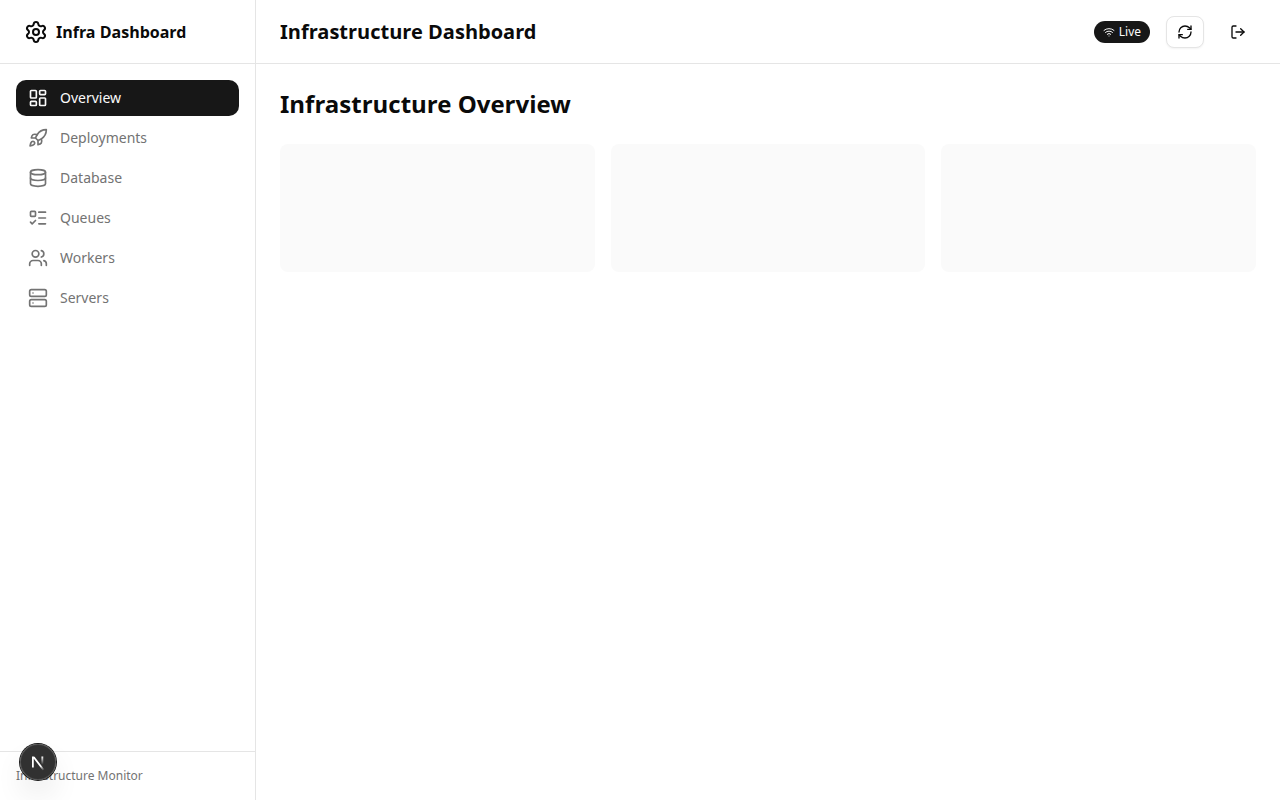
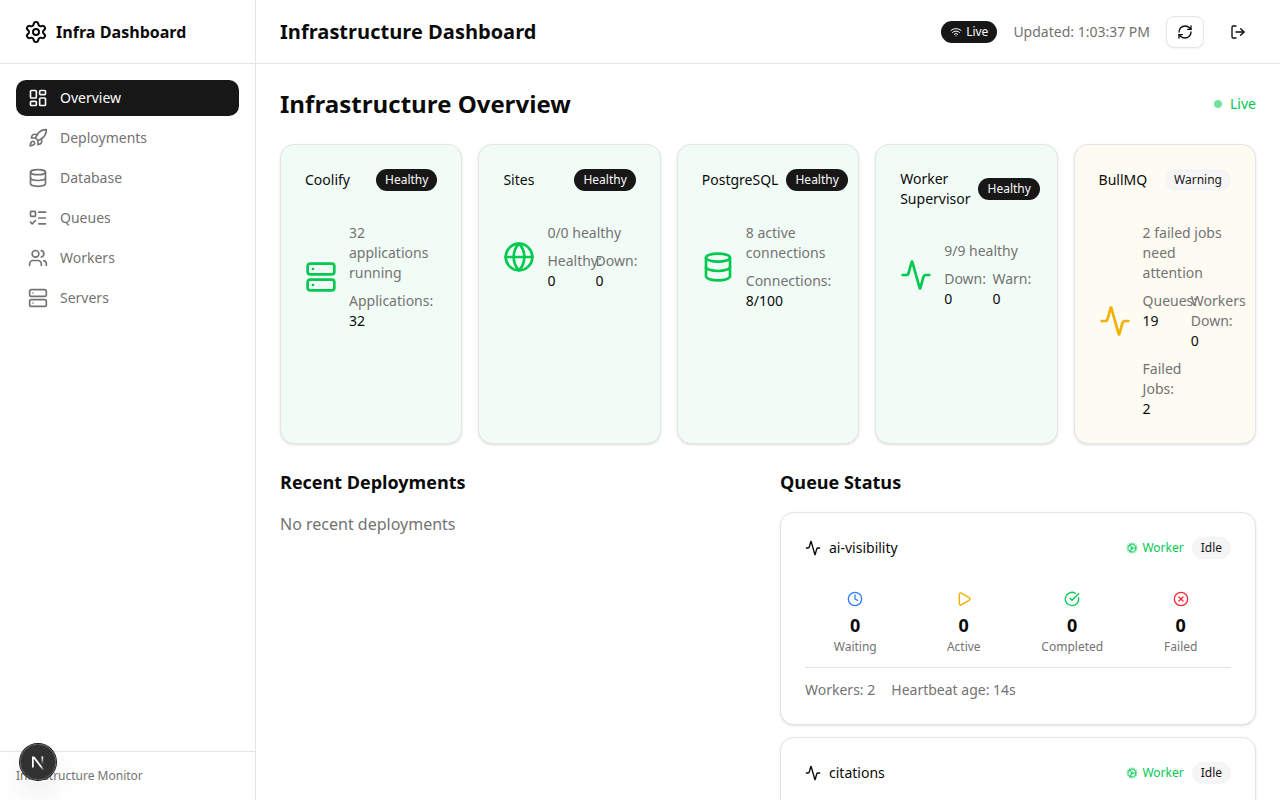
Increase screenshot wait time for full data load
Wait 8 seconds per page to ensure all API data and SSE updates render

diff --git a/scripts/screenshots.ts b/scripts/screenshots.ts
@@ -44,8 +44,8 @@ async function takeScreenshots() {
   for (const screenshot of SCREENSHOTS) {
     try {
       await page.goto(`${baseUrl}${screenshot.path}`, { waitUntil: 'domcontentloaded' })
-      // Wait for data to load (SSE keeps connection open so networkidle won't work)
-      await page.waitForTimeout(3000)
+      // Wait for data to fully load (API calls, SSE updates, animations)
+      await page.waitForTimeout(8000)
       await page.screenshot({
         path: path.join(outputDir, `${screenshot.name}.png`),
         fullPage: false
